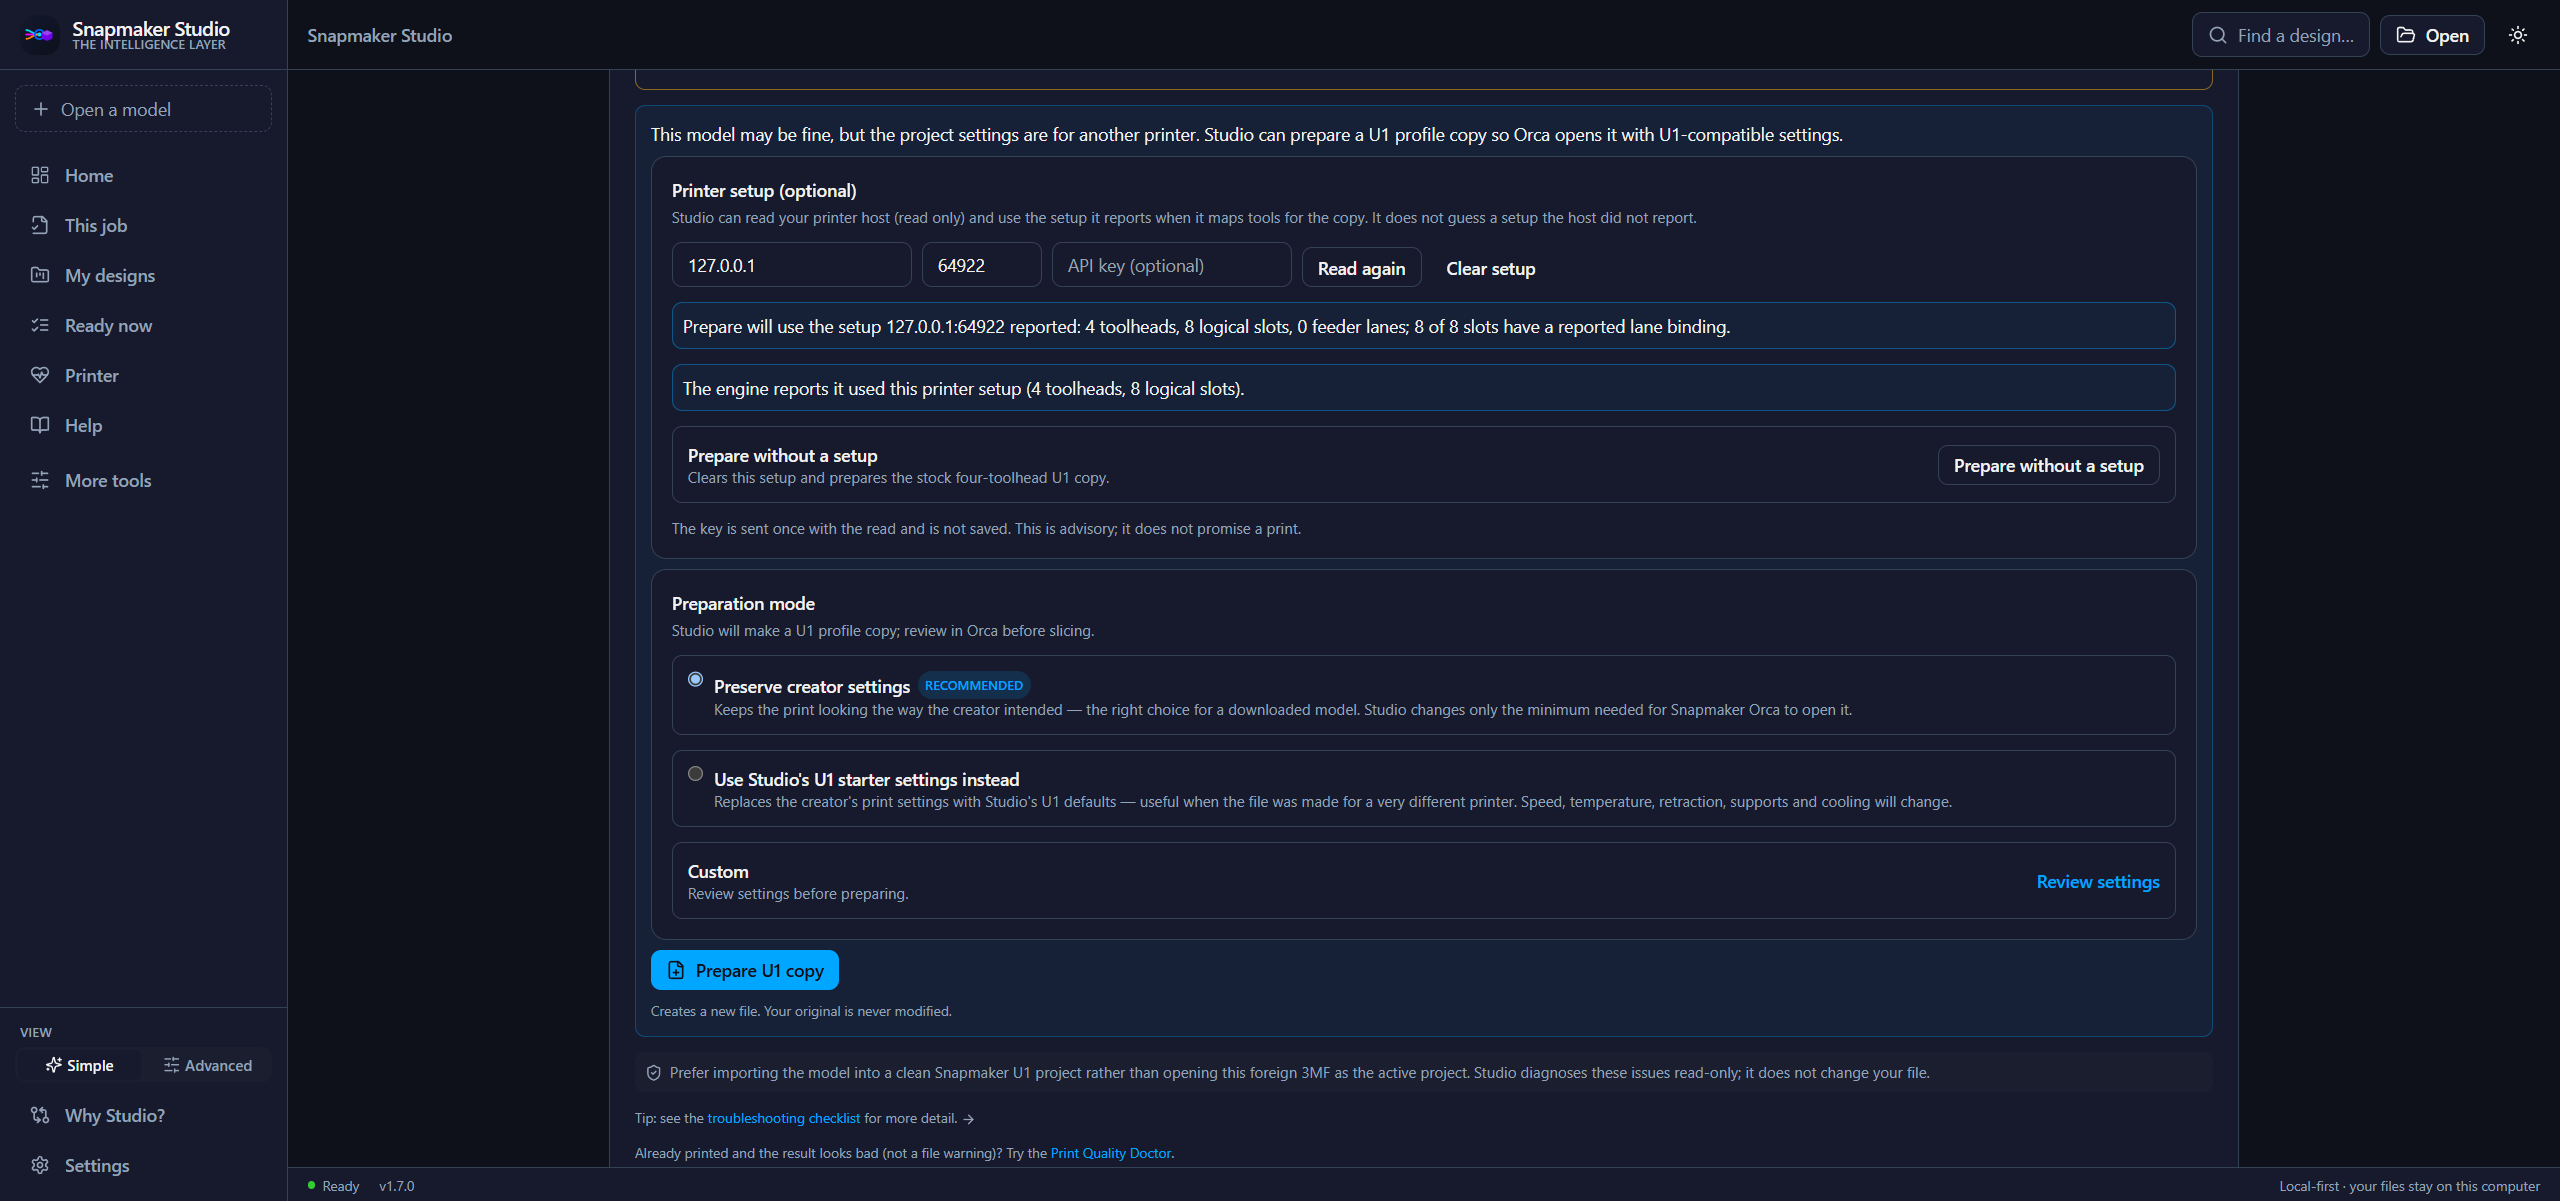
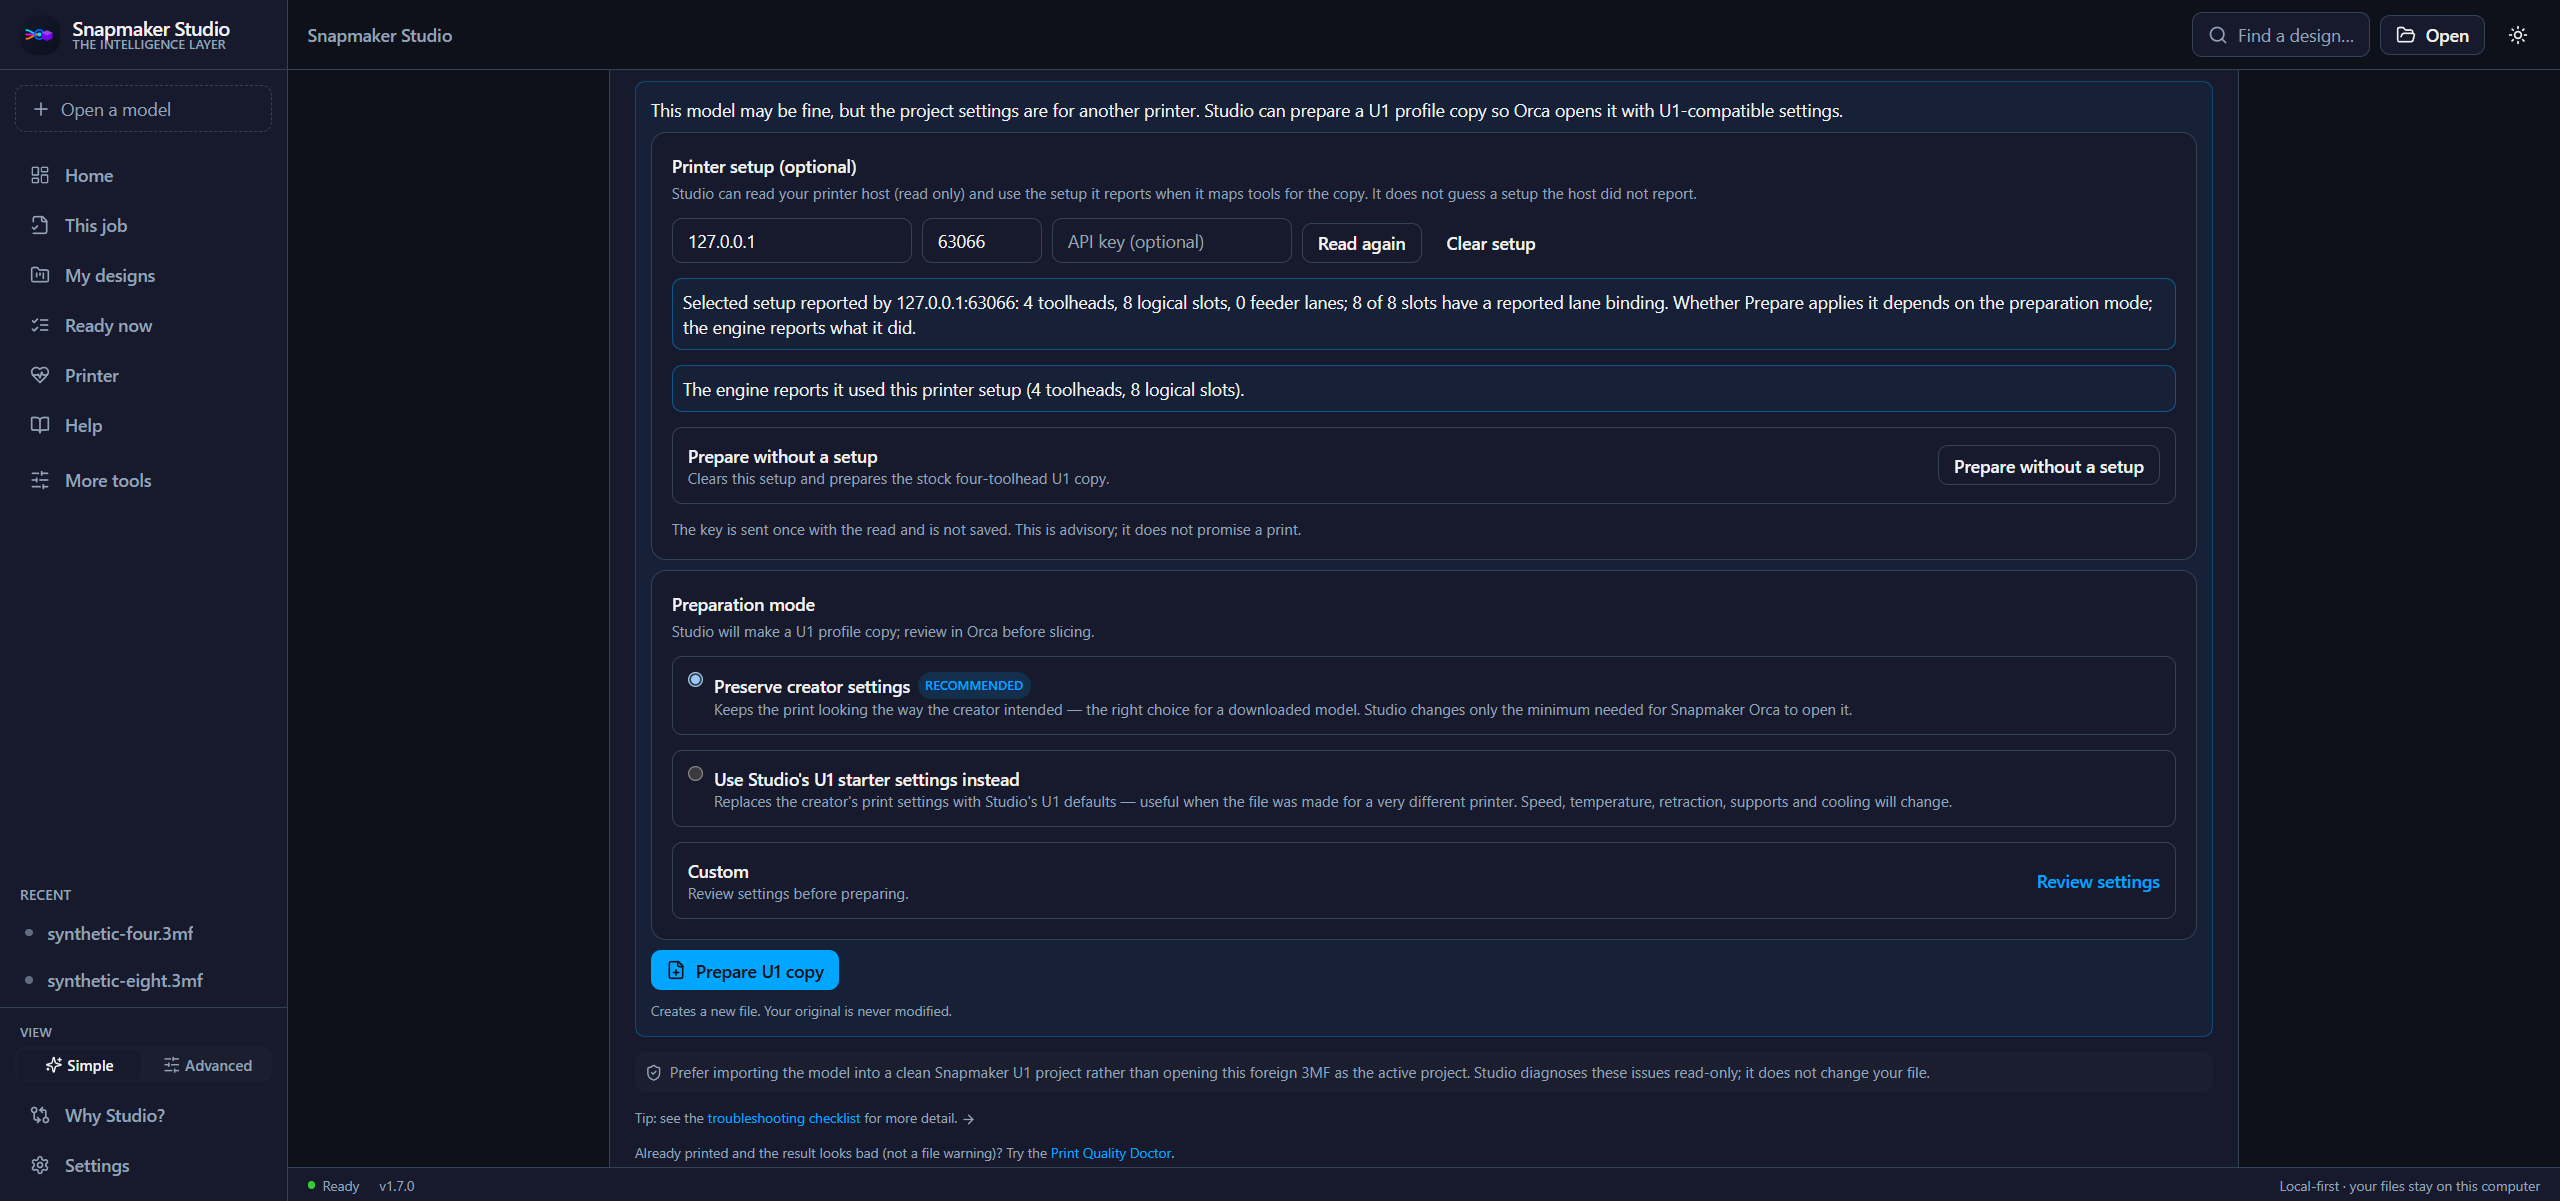
fix(prepare): neutral selection text; recaptured screenshots
Review R2: the selector promised 'Prepare will use the setup' even where the mode ignores it.
It now says the setup was reported and that the engine reports what it did.

Verified: tsc clean; desktop vitest 133 files / 1429 passed.

diff --git a/desktop/src/lib/prepareSetup.ts b/desktop/src/lib/prepareSetup.ts
@@ -154,7 +154,7 @@ export function setupStatusLine(sel: PrepareSetupSelection): string {
   switch (sel.status) {
     case "none": return "No setup chosen. Prepare uses Studio's stock four-toolhead U1 behaviour.";
     case "reading": return `Reading ${sel.label}...`;
-    case "ready": return `Prepare will use the setup ${sel.label} reported: ${sel.summary.text}.`;
+    case "ready": return `Selected setup reported by ${sel.label}: ${sel.summary.text}. Whether Prepare applies it depends on the preparation mode; the engine reports what it did.`;
     default: return `${sel.label}: ${sel.reason}.`;
   }
 }

diff --git a/docs/internal/screens/prepare-setup/README.md b/docs/internal/screens/prepare-setup/README.md
@@ -1,0 +1,8 @@
+# Prepare-with-setup screenshots
+
+Real UI (Vite dev) against a real local backend process, with a synthetic loopback host (`tools/dev/phase2-prepare-mock.mjs`). Synthetic projects only. No printer, no real network host.
+
+- `eight-slot-preserve.png`, `recommended-setup-not-applied.png`: current wording.
+- `stock-four-head.png`, `invalid-blocked.png`, `failed-read.png`: captured before the selection line was made neutral ("Selected setup reported by ..."); they show the earlier line "Prepare will use the setup ...". The engine outcome shown beneath it is unchanged. Recapture before any public use.
+
+The eight-slot host is a hypothetical variant, not a capture of real hardware.
